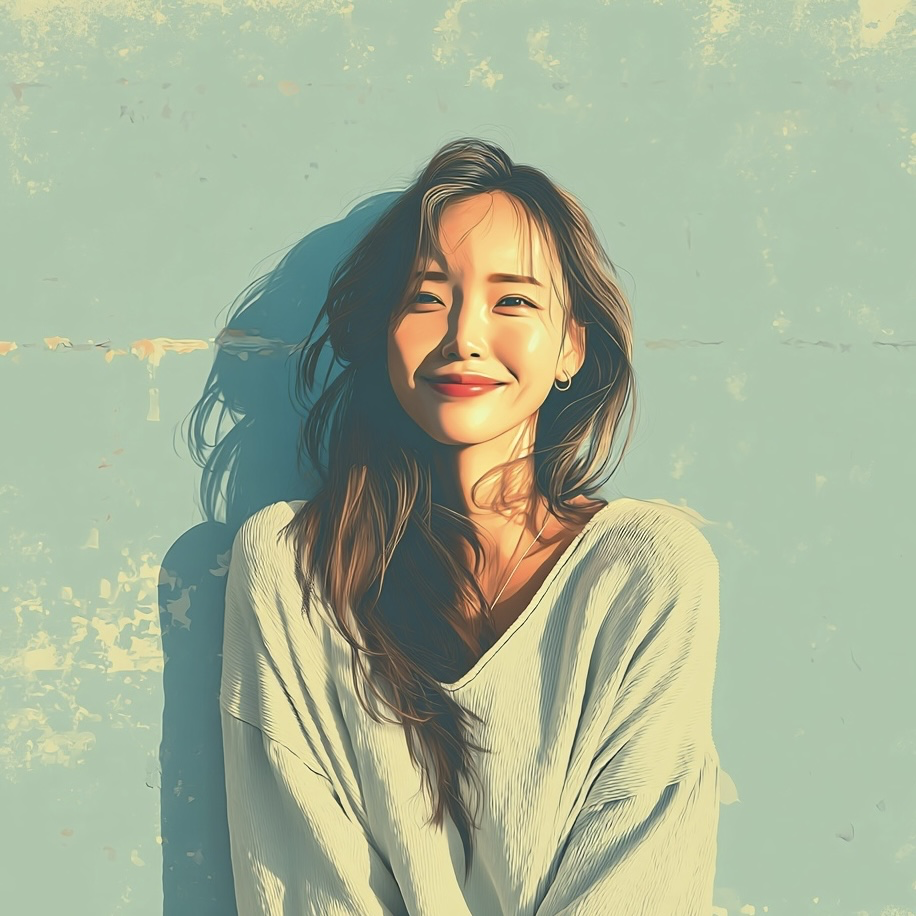
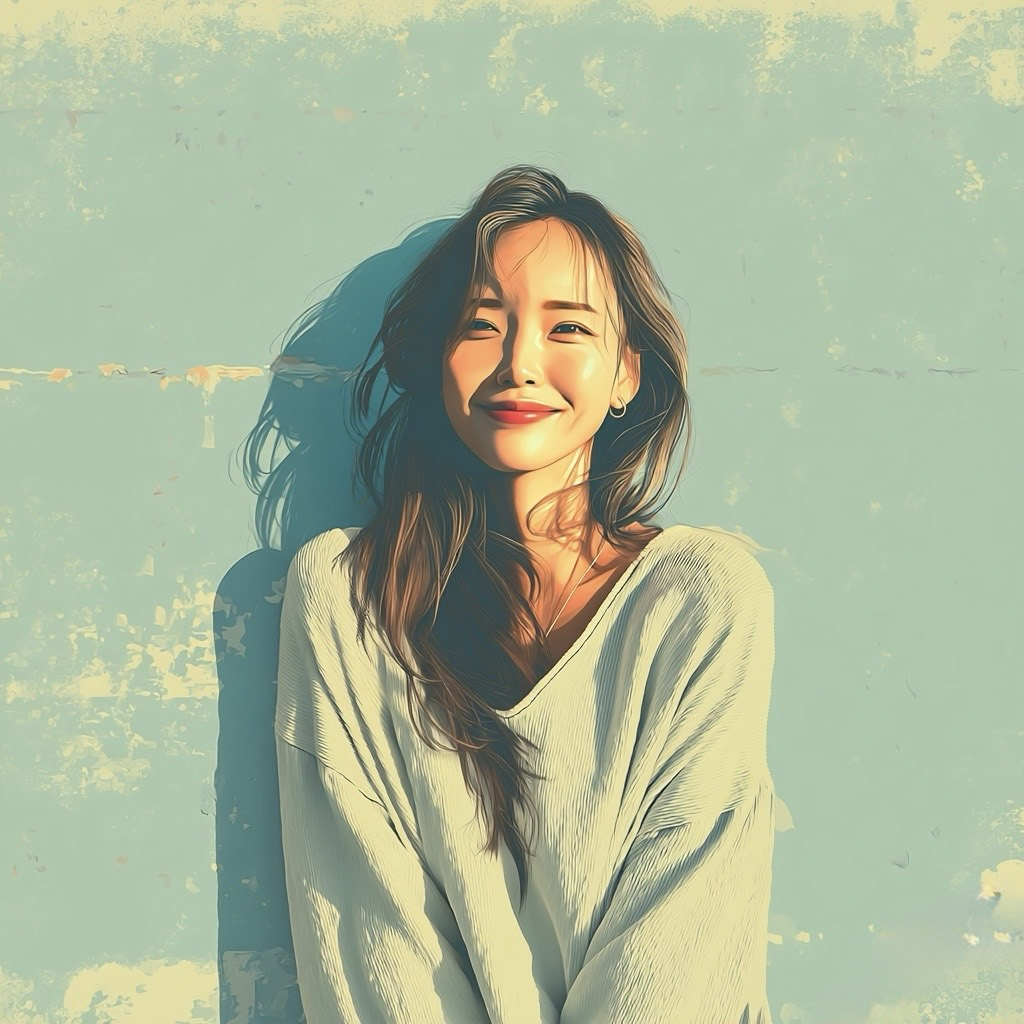
Update profile image and brand colors

diff --git a/made/index.html b/made/index.html
@@ -21,7 +21,7 @@
             theme: {
                 extend: {
                     colors: {
-                        accent: '#508088',
+                        accent: '#14B9A7',
                         dark: '#121212',
                         paper: '#F7F7F5',
                         'paper-alt': '#EFEFE9',
@@ -40,7 +40,7 @@
     </script>
     <style>
         body {
-            background-color: #121212;
+            background-color: #14B9A7;
             color: #121212;
             -webkit-font-smoothing: antialiased;
         }
@@ -73,8 +73,8 @@
             color: #121212;
         }
         .btn-accent {
-            background-color: #E8E0A8;
-            border-color: #E8E0A8;
+            background-color: #facc15;
+            border-color: #facc15;
             color: #121212;
         }
         .btn-accent:hover {
@@ -107,7 +107,7 @@
 </head>
 <body class="w-full h-full min-h-screen">
 
-    <main class="w-full flex flex-col gap-gap-border bg-dark">
+    <main class="w-full flex flex-col gap-gap-border bg-accent">
 
         <!-- Header -->
         <header class="w-full bg-paper p-6 flex justify-between items-center">
@@ -137,15 +137,15 @@
             </div>
         </nav>
 
-        <div class="w-full bg-dark flex flex-col gap-gap-border">
+        <div class="w-full bg-accent flex flex-col gap-gap-border">
 
             <!-- Kids Educational Games -->
             <section id="ebooks" class="flex flex-col gap-gap-border scroll-mt-[52px]">
                 <div class="bg-paper p-6 md:p-8 flex items-center gap-4">
-                    <div class="section-number" style="border-color:#508088;color:#508088">01</div>
+                    <div class="section-number" style="border-color:#14B9A7;color:#14B9A7">01</div>
                     <h2 class="font-display text-3xl md:text-4xl uppercase tracking-tighter pt-1 leading-none">Products</h2>
                 </div>
-                <div class="grid grid-cols-1 sm:grid-cols-2 lg:grid-cols-3 xl:grid-cols-4 gap-gap-border bg-dark">
+                <div class="grid grid-cols-1 sm:grid-cols-2 lg:grid-cols-3 xl:grid-cols-4 gap-gap-border bg-accent">
                     <article class="bg-dark text-paper p-6 flex flex-col h-full hover:bg-[#1a1a1a] transition-colors group border-2 border-transparent hover:border-accent">
                         <h3 class="font-mono text-xl font-bold uppercase tracking-tight mb-3 text-accent break-words">buildwithyourkid.com</h3>
                         <p class="font-serif text-sm text-gray-300 leading-snug flex-grow mb-6">"12 Weeks of Tech Projects to Build With Your Kid." Ebook + prompt pack + printables.</p>
@@ -183,7 +183,7 @@
                     <div class="section-number">02</div>
                     <h2 class="font-display text-3xl md:text-4xl uppercase tracking-tighter pt-1 leading-none">Kids Educational Games</h2>
                 </div>
-                <div class="grid grid-cols-1 sm:grid-cols-2 lg:grid-cols-3 xl:grid-cols-4 gap-gap-border bg-dark">
+                <div class="grid grid-cols-1 sm:grid-cols-2 lg:grid-cols-3 xl:grid-cols-4 gap-gap-border bg-accent">
                     <article class="bg-dark text-paper p-6 flex flex-col h-full hover:bg-[#1a1a1a] transition-colors group border-2 border-transparent hover:border-accent">
                         <h3 class="font-mono text-xl font-bold uppercase tracking-tight mb-3 text-accent break-words">airplanes.games</h3>
                         <p class="font-serif text-sm text-gray-300 leading-snug flex-grow mb-6">Pattern recognition, logic, counting, and problem solving games for ages 3-5.</p>
@@ -273,7 +273,7 @@
                     <div class="section-number">03</div>
                     <h2 class="font-display text-3xl md:text-4xl uppercase tracking-tighter pt-1 leading-none">Tools & Utilities</h2>
                 </div>
-                <div class="grid grid-cols-1 sm:grid-cols-2 lg:grid-cols-3 xl:grid-cols-4 gap-gap-border bg-dark">
+                <div class="grid grid-cols-1 sm:grid-cols-2 lg:grid-cols-3 xl:grid-cols-4 gap-gap-border bg-accent">
                     <article class="bg-paper p-6 flex flex-col h-full hover:bg-paper-alt transition-colors group">
                         <h3 class="font-mono text-xl font-bold uppercase tracking-tight mb-3 group-hover:text-accent transition-colors break-words">chomp</h3>
                         <p class="font-serif text-sm text-gray-700 leading-snug flex-grow mb-6">Nutrition tracking CLI in Rust. Local SQLite database, MCP server for AI agents.</p>
@@ -356,10 +356,10 @@
             <!-- MCP Servers -->
             <section id="mcp" class="flex flex-col gap-gap-border scroll-mt-[52px]">
                 <div class="bg-paper p-6 md:p-8 flex items-center gap-4">
-                    <div class="section-number" style="border-color:#508088;color:#508088">04</div>
+                    <div class="section-number" style="border-color:#14B9A7;color:#14B9A7">04</div>
                     <h2 class="font-display text-3xl md:text-4xl uppercase tracking-tighter pt-1 leading-none">MCP Servers</h2>
                 </div>
-                <div class="grid grid-cols-1 sm:grid-cols-2 lg:grid-cols-3 xl:grid-cols-4 gap-gap-border bg-dark">
+                <div class="grid grid-cols-1 sm:grid-cols-2 lg:grid-cols-3 xl:grid-cols-4 gap-gap-border bg-accent">
                     <article class="bg-dark text-paper p-6 flex flex-col h-full hover:bg-[#1a1a1a] transition-colors group border-2 border-transparent hover:border-accent">
                         <h3 class="font-mono text-xl font-bold uppercase tracking-tight mb-3 text-accent break-words">makemcp.dev</h3>
                         <p class="font-serif text-sm text-gray-300 leading-snug flex-grow mb-6">Hub page for all MCP servers. Install instructions and docs.</p>
@@ -419,7 +419,7 @@
                     <div class="section-number">05</div>
                     <h2 class="font-display text-3xl md:text-4xl uppercase tracking-tighter pt-1 leading-none">OpenClaw Skills</h2>
                 </div>
-                <div class="grid grid-cols-1 sm:grid-cols-2 lg:grid-cols-3 xl:grid-cols-4 gap-gap-border bg-dark">
+                <div class="grid grid-cols-1 sm:grid-cols-2 lg:grid-cols-3 xl:grid-cols-4 gap-gap-border bg-accent">
                     <article class="bg-paper p-6 flex flex-col h-full hover:bg-paper-alt transition-colors group">
                         <h3 class="font-mono text-xl font-bold uppercase tracking-tight mb-3 group-hover:text-accent transition-colors break-words">xqueue</h3>
                         <p class="font-serif text-sm text-gray-700 leading-snug flex-grow mb-6">File-based X/Twitter post scheduler. Your filesystem is the UI.</p>
@@ -485,7 +485,7 @@
                     <div class="section-number">06</div>
                     <h2 class="font-display text-3xl md:text-4xl uppercase tracking-tighter pt-1 leading-none">Hugo Themes</h2>
                 </div>
-                <div class="grid grid-cols-1 sm:grid-cols-2 lg:grid-cols-3 xl:grid-cols-4 gap-gap-border bg-dark">
+                <div class="grid grid-cols-1 sm:grid-cols-2 lg:grid-cols-3 xl:grid-cols-4 gap-gap-border bg-accent">
                     <article class="bg-paper p-6 flex flex-col h-full hover:bg-paper-alt transition-colors group">
                         <h3 class="font-mono text-xl font-bold uppercase tracking-tight mb-3 group-hover:text-accent transition-colors break-words">vintage-web-hugo-theme</h3>
                         <p class="font-serif text-sm text-gray-700 leading-snug flex-grow mb-6">Late 90s/early 2000s web nostalgia. 20+ stars.</p>

diff --git a/index.html b/index.html
@@ -71,8 +71,8 @@
         :root {
             --bg: #F7F7F5;
             --fg: #0A0A0A;
-            --coral: #E8E0A8;
-            --teal: #508088;
+            --coral: #facc15;
+            --teal: #14B9A7;
             --border-width: 1.5px;
             --font-display: 'Anton', sans-serif;
             --font-serif: 'Newsreader', serif;

diff --git a/README.md b/README.md
@@ -14,7 +14,7 @@ Editorial split-screen layout inspired by magazine covers and brutalist web desi
 - **Dark mode** via `prefers-color-scheme` — muted titles, dimmed photo, warm tones
 - **Mobile** — stacks vertically with cropped landscape photo strip matching desktop crop
 - **Fonts** — Anton (display), Newsreader (bio), Inter (body)
-- **Colors** — sunlit yellow `#E8E0A8`, shadow teal `#508088`, ink `#0A0A0A`, bg `#F7F7F5`
+- **Colors** — Build With Your Kid yellow `#facc15`, Raising Pixels teal `#14B9A7`, ink `#0A0A0A`, bg `#F7F7F5`
 
 ## Tech
 